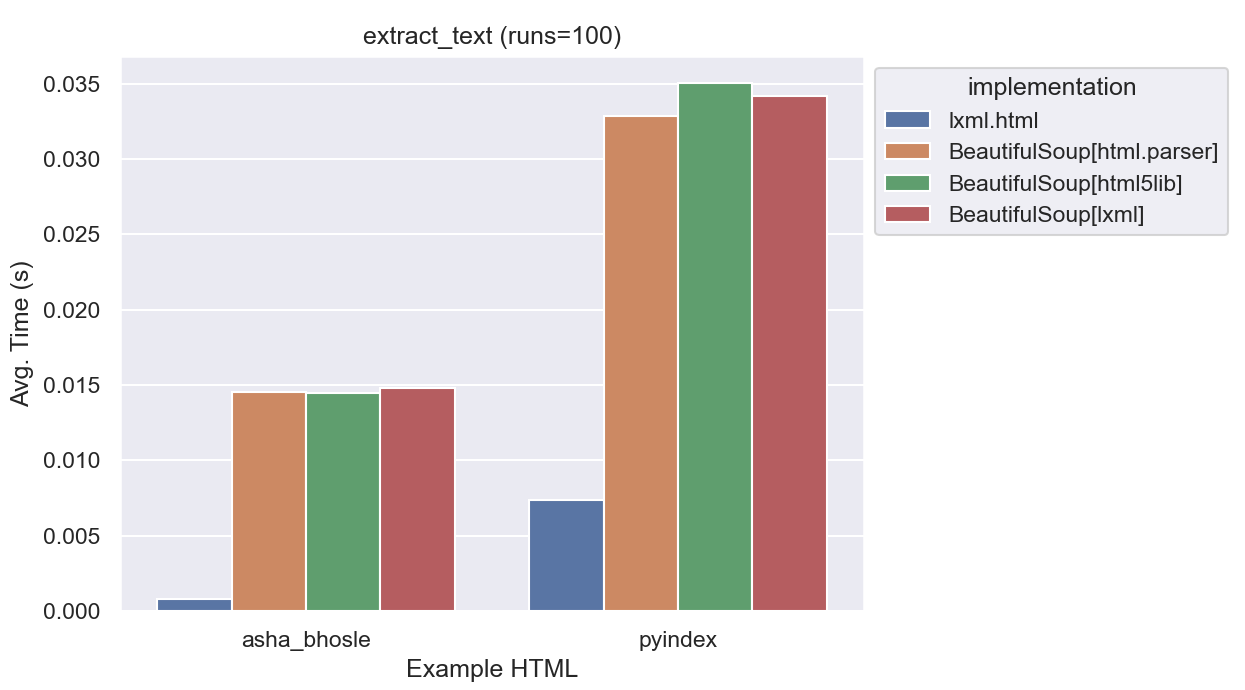
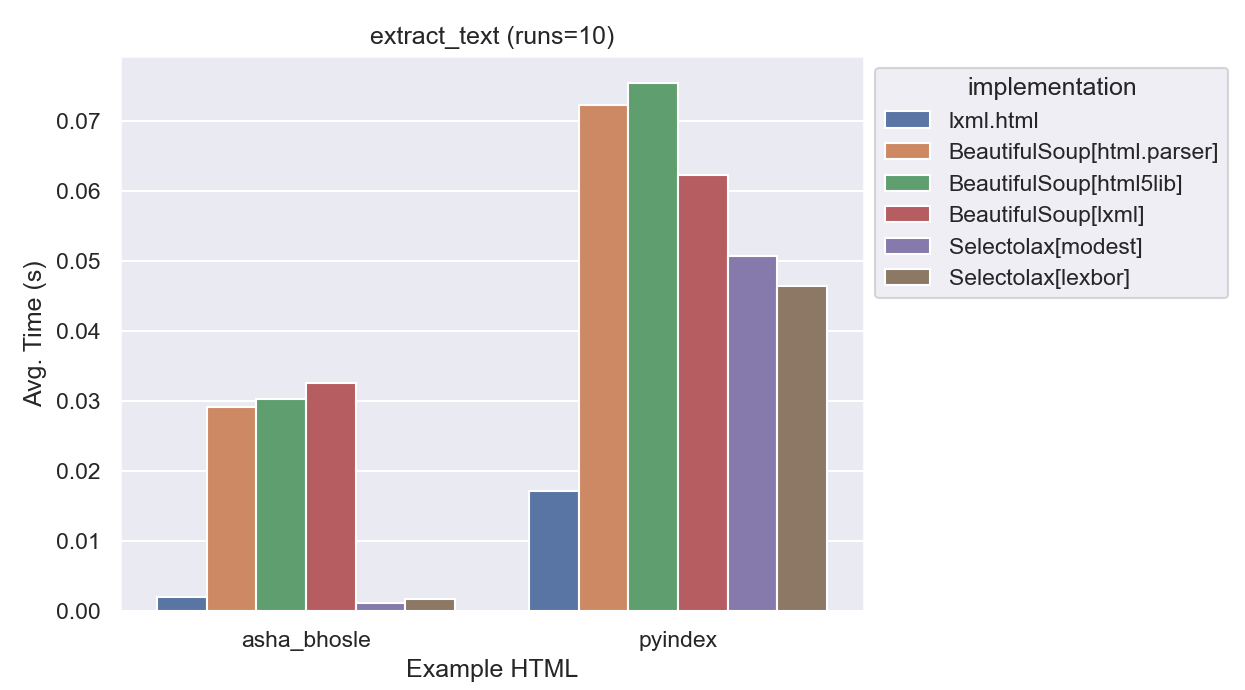
more outlining

diff --git a/scraping_experiments/parsing/implementations.py b/scraping_experiments/parsing/implementations.py
@@ -156,9 +156,8 @@ class Selectolax(Base):
 
         def count(element):
             elements.append(element.tag)
-            if element.child:
-                for child in element.child.iter():
-                    count(child)
+            for child in element.iter():
+                count(child)
 
         count(self.root[example].root)
         return elements

diff --git a/docs/parsing/performance.md b/docs/parsing/performance.md
@@ -1,55 +1,35 @@
 # Parsing: Performance
 
 TODO https://beautiful-soup-4.readthedocs.io/en/latest/#improving-performance
-TODO add other libraries
 
-When people talk about libraries for writing
-web scrapers, the first thing they usually mention are the libraries for parsing HTML.
-
-In Python that means [Beautiful Soup](https://www.crummy.com/software/BeautifulSoup/) and [lxml](http://lxml.de/).
-
-Beautiful Soup is not actually a parser in itself, but a wrapper around a number of different parsers. It's [documentation](https://www.crummy.com/software/BeautifulSoup/bs4/doc/#installing-a-parser) explains how to pick a parser and offers some conventional wisdom about which you should pick.  The default parser is [html.parser](https://docs.python.org/3/library/html.parser.html), which is part of the Python standard library. You can also use [lxml](http://lxml.de/) or `html5lib`.
-
-The conventional wisdom about these parsers is roughly:
-
-| Parser | Speed | Flexibility |
-| --- | --- | --- |
-| html.parser | Slow | Moderately |
-| lxml | Fast | Moderately |
-| html5lib | Slowest | Most |
-
-I realized despite years of writing scrapers, I didn't know how well this wisdom had held up. Python has gotten a lot faster, perhaps BeautifulSoup was more competitive.
-
-Also, I've always found the "flexibility" part of the conventional wisdom to be a bit vague.  What does flexible really mean?  I've scraped [a lot of terrible HTML](https://gitub.com/openstates/openstates-scrapers/) with `lxml`, would it have been easier with `html5lib`?
-
-I'm going to take a look at these libraries among a couple of dimensions:
-
-* Performance (Speed & Memory)
-* Flexibility
-* Ease of Use & Features
-* Memory Usage
 
 ## Speed Comparison
 
-To be clear, speed is rarely the most important part of choosing a scraping library. We'll start there because it is the most straightforward to measure and will give us an opportunity to see some sample code for each.
+It makes sense to acknowledge that speed is rarely the most important part of choosing a scraping library. While it is generally true that scrapers are limited by the speed of the connection to the target website, the speed of different parsers can have a significant impact on the performance of your scraper.
 
-While it is generally true that scrapers are limited by the speed of the connection to the target website, the speed of different parsers can have a significant impact on the performance of your scraper.
+### #1 - Parsing HTML
 
-### Benchmark #1 - Parsing HTML
-
-The initial parse of the HTML is the most expensive part of the scraping process.  This benchmark measures the time it takes to parse the HTML using each library.
+The initial parse of the HTML is likely the most expensive part of the scraping process. This benchmark measures the time it takes to parse the HTML using each library.
 
 #### Code
 
-lxml.html:
-```python
-root = lxml.html.fromstring(html)
-```
-BeautifulSoup:
-```python
-root = BeautifulSoup(html, 'lxml')
-  # or 'html.parser' or 'html5lib'
-```
+=== "lxml.html"
+
+    ```python
+    root = lxml.html.fromstring(html)
+    ```
+=== "BeautifulSoup"
+
+    ```python
+    root = BeautifulSoup(html, 'lxml')
+      # or 'html.parser' or 'html5lib'
+    ```
+=== "Selectolax"
+
+    ```python
+    root = selectolax.parser.HTMLParser(html)
+    # or selectolax.lexbor.LexborParser(html)
+    ```
 
 #### Results
 
@@ -76,25 +56,30 @@ Taking a look at a graph with just html5test, it is clear the relative speeds ar
 
 Parsing this page is so much faster than the larger more complex pages used for the rest of the tests that it basically disappeared on all graphs.
 
-### Benchmark #2 - Extracting Links
+### #2 - Extracting Links
 
 This benchmark uses each library to find all `<a>` tags with an `href` attribute.  This is a common task for scrapers. 
 
 #### Code
 
-lxml.html:
+=== "lxml.html"
 
-```python
-# in lxml, XPath is the native way to do this
-links = root.xpath('//a[@href]')
-```
+    ```python
+    # in lxml, XPath is the native way to do this
+    links = root.xpath('//a[@href]')
+    ```
+=== "BeautifulSoup"
 
-BeautifulSoup:
+    ```python
+    # in BeautifulSoup, you'd typically use find_all
+    links = root.find_all('a', href=True)
+    ```
+=== "Selectolax"
 
-```python
-# in BeautifulSoup, you'd typically use find_all
-links = root.find_all('a', href=True)
-```
+    ```python
+    # Selectolax is essentially a CSS Selector implementation
+    links = root.css('a[href]')
+    ```
 
 #### Results
 
@@ -104,7 +89,7 @@ The results here are similar to the first benchmark, lxml is significantly faste
 
 Furthermore, the three BeautifulSoup implementations are virtually identical in speed. This was interesting, it looks like BeautifulSoup is likely using its own implementation of `find_all` instead of taking advantage of lxml's faster alternatives.
 
-### Benchmark #3 - Extracting Links (CSS)
+### #3 - Extracting Links (CSS)
 
 I wanted to take a look at another way of getting the same data. This time we'll use CSS Selectors to find all `<a>` tags with an `href` attribute.
 
@@ -112,18 +97,21 @@ I wanted to take a look at another way of getting the same data. This time we'll
 
 Note: For lxml to support this feature, it needs the [cssselect](https://pypi.org/project/cssselect/) library installed.
 
-lxml.html:
+=== "lxml.html"
 
-```python
-links = root.cssselect('a[href]')
-```
+    ```python
+    links = root.cssselect('a[href]')
+    ```
+=== "BeautifulSoup"
 
-BeautifulSoup:
+    ```python
+    links = root.select('a[href]')
+    ```
+=== "Selectolax" 
 
-```python
-# select all a tags with an href attribute
-links = root.select('a[href]')
-```
+    ```python
+    links = root.css('a[href]')
+    ```
 
 #### Results
 
@@ -133,7 +121,7 @@ lxml.html once again was a clear winner.  It is about 12x faster than BeautifulS
 
 Furthermore, CSS Selectors are just as fast in lxml as XPath which is good news if you prefer using them.
 
-### Benchmark #4 - Counting Elements
+### #4 - Counting Elements
 
 For this benchmark we'll walk the DOM tree and count the number of elements.  DOM Traversal is just about the worst way to get data out of HTML, but sometimes it is necessary.
 
@@ -143,27 +131,40 @@ There are multiple ways to walk the entire tree, but I figured I'd do it naively
 
 My first attempt looked like this:
 
-lxml.html:
+=== "lxml.html"
 
-```python
-  elements = []
-  def count(element):
-      elements.append(element)
-      for child in element.getchildren():
-          count(child)
-  count(root)
-```
+    ```python
+      elements = []
+      def count(element):
+          elements.append(element)
+          for child in element.getchildren():
+              count(child)
+      count(root)
+    ```
+=== "BeautifulSoup"
 
-BeautifulSoup:
+    ```python
+      elements = []
+      def count(element):
+          # beautiful soup includes text nodes
+          # which we need to filter out
+          if isinstance(element, bs4.Tag):
+            elements.append(element)
+            for child in element.children:
+                count(child)
+      count(root)
+    ```
+=== "Selectolax"
 
-```python
-  elements = []
-  def count(element):
-      elements.append(element)
-      for child in element.children:
-          count(child)
-  count(root)
-```
+    ```python
+      elements = []
+      def count(element):
+          elements.append(element.tag)
+          for child in element.iter():
+              count(child)
+      count(root)
+    ```
+
 
 But when comparing the results to make sure the implementations were equivalent, I saw this:
 
@@ -204,7 +205,7 @@ There are still small differences, especially with html5lib.  We'll explore what
 
 Wow! BeautifulSoup wins, it is about 30% faster to do this traversal with BeautifulSoup. The difference here is of course much smaller, but I'd assumed we wouldn't see BeautifulSoup win any of these benchmarks by this point.
 
-### Benchmark #5 - Extracting Text
+### #5 - Extracting Text
 
 For this benchmark, we'll use each parser's built in text extraction function to extract the text from the pages.
 
@@ -214,19 +215,25 @@ For this benchmark in particular, we'll extract text from each of the `<ul>` tag
 
 #### Code
 
-lxml.html: 
+=== "lxml.html"
 
-```python
-uls = root.xpath('//ul')
-text = "".join([ul.text_content() for ul in uls])
-```
+    ```python
+    uls = root.xpath('//ul')
+    text = "".join([ul.text_content() for ul in uls])
+    ```
+=== BeautifulSoup
 
-BeautifulSoup:
+    ```python
+    uls = root.find_all('ul')
+    text = "".join([ul.get_text() for ul in uls])
+    ```
 
-```python
-uls = root.find_all('ul')
-text = "".join([ul.get_text() for ul in uls])
-```
+=== "Selectolax"
+
+    ```python
+    uls = root.css('ul')
+    text = "".join([ul.text() for ul in uls])
+    ```
 
 #### Results
 
@@ -245,7 +252,7 @@ For the pyindex example it is notable that html5lib and lxml.html are finding ab
 It's also quite strange that BeautifulSoup's lxml parser is finding the same number of characters as the html.parser, and not `lxml.html`.
 It'll be worth revisiting this when we get to evaluating flexibility.
 
-### Benchmark #6 - "Real World"
+### #6 - "Real World"
 
 So far we've been looking at very simple benchmarks of common methods. It seems clear that lxml.html is the fastest, but how much would that speed matter in a real world scenario?
 
@@ -319,12 +326,15 @@ Next time, we'll take a look at how flexible each parser is, and how that affect
 
 All benchmarks were evaluated on a 2021 MacBook Pro with an Apple M1 Pro.
 
-Python: 3.10.7 (installed via pyenv)
-BeautifulSoup: 4.11.1
-lxml: 4.9.1
-cssselect: 1.2.0
+| Component | Version |
+| --------- | ------- |
+| Python | 3.10.7 (installed via pyenv) |
+| BeautifulSoup | 4.11.1 |
+| lxml | 4.9.1 |
+| cssselect |  1.2.0 |
+| selectolax | 0.3.11| 
 
-For the performance tests I grabbed four sample pages:
+The sample pages referenced in the benchmarks are:
 
 * [Python Documentation Full Index](https://docs.python.org/3/genindex-all.html) - A fairly large page with lots of links.
 * [List of 2021-22 NBA Transactions](https://en.wikipedia.org/wiki/List_of_2021%E2%80%9322_NBA_season_transactions) - A very large Wikipedia page with a huge table.

diff --git a/docs/parsing/intro.md b/docs/parsing/intro.md
@@ -1,0 +1,26 @@
+# Comparing Parsing Libraries
+
+When people talk about Python libraries for writing
+web scrapers, [Beautiful Soup](https://www.crummy.com/software/BeautifulSoup/) often comes up first.
+
+It's popular enough people were often surprised to find out that Open States didn't use it. We used [lxml](http://lxml.de/) instead, switching around the time of the somewhat fraught BeautifulSoup 4 transition.
+
+The conventional wisdom is that Beautiful Soup is the most flexible, while lxml is much faster, but the most popular Stack Overflow answers on the topic are from about a decade ago.
+
+Furthermore, as of BS4, Beautiful Soup works as a wrapper around a number of different parsers. It's [documentation](https://www.crummy.com/software/BeautifulSoup/bs4/doc/#installing-a-parser) explains how to pick a parser and offers some conventional wisdom about which you should pick. The default parser is [html.parser](https://docs.python.org/3/library/html.parser.html), which is part of the Python standard library. You can also use [lxml](http://lxml.de/) or html5lib.
+
+There's also a much newer kid in town, while Beautiful Soup & lxml have been around for over a decade (as their websites might remind you), [Selectolax](https://github.com/rushter/selectolax) popped up in the last few years.
+
+So in part, this experiment is to get a better sense for how these three libraries stack up against one another.
+
+* How does the developer experience compare?
+* With Beautiful Soup offering a wrapper around lxml, is there any reason to use lxml directly if you're using Beautiful Soup?
+* Have Python speed improvements negated much of lxml's performance advantage?
+* How does Selectolax fit into all this?
+* How much does the flexibility of the parsers differ in 2023? Is it worth the performance hit to use html5lib?
+
+To explore these questions, we'll take a look at these libraries among a couple of dimensions:
+
+* [Performance](./performance.md)
+* [Parser Flexibility](./bad_html.md)
+* [Ease of Use & Features](./features.md)

diff --git a/docs/requests/libraries.md b/docs/requests/libraries.md
@@ -1,1 +1,9 @@
 # Requests Libraries Compared
+
+We'll be comparing the following libraries:
+
+* [urllib.request](https://docs.python.org/3/library/urllib.request.html)
+* [requests](https://requests.readthedocs.io/en/master/)
+* [httpx](https://www.python-httpx.org/)
+* [aiohttp](https://docs.aiohttp.org/en/stable/)
+* [urllib3](https://urllib3.readthedocs.io/en/latest/)

diff --git a/docs/parsing/features.md b/docs/parsing/features.md
@@ -1,1 +1,7 @@
-# Parsing: Features
+# Parsing: User Experience
+
+## Common Tasks Compared
+
+## Features
+
+## Documentation

diff --git a/docs/requests/caching.md b/docs/requests/caching.md
@@ -1,0 +1,7 @@
+# Caching & Retries
+
+### Caching
+
+### Retries
+
+### `scrapelib`
